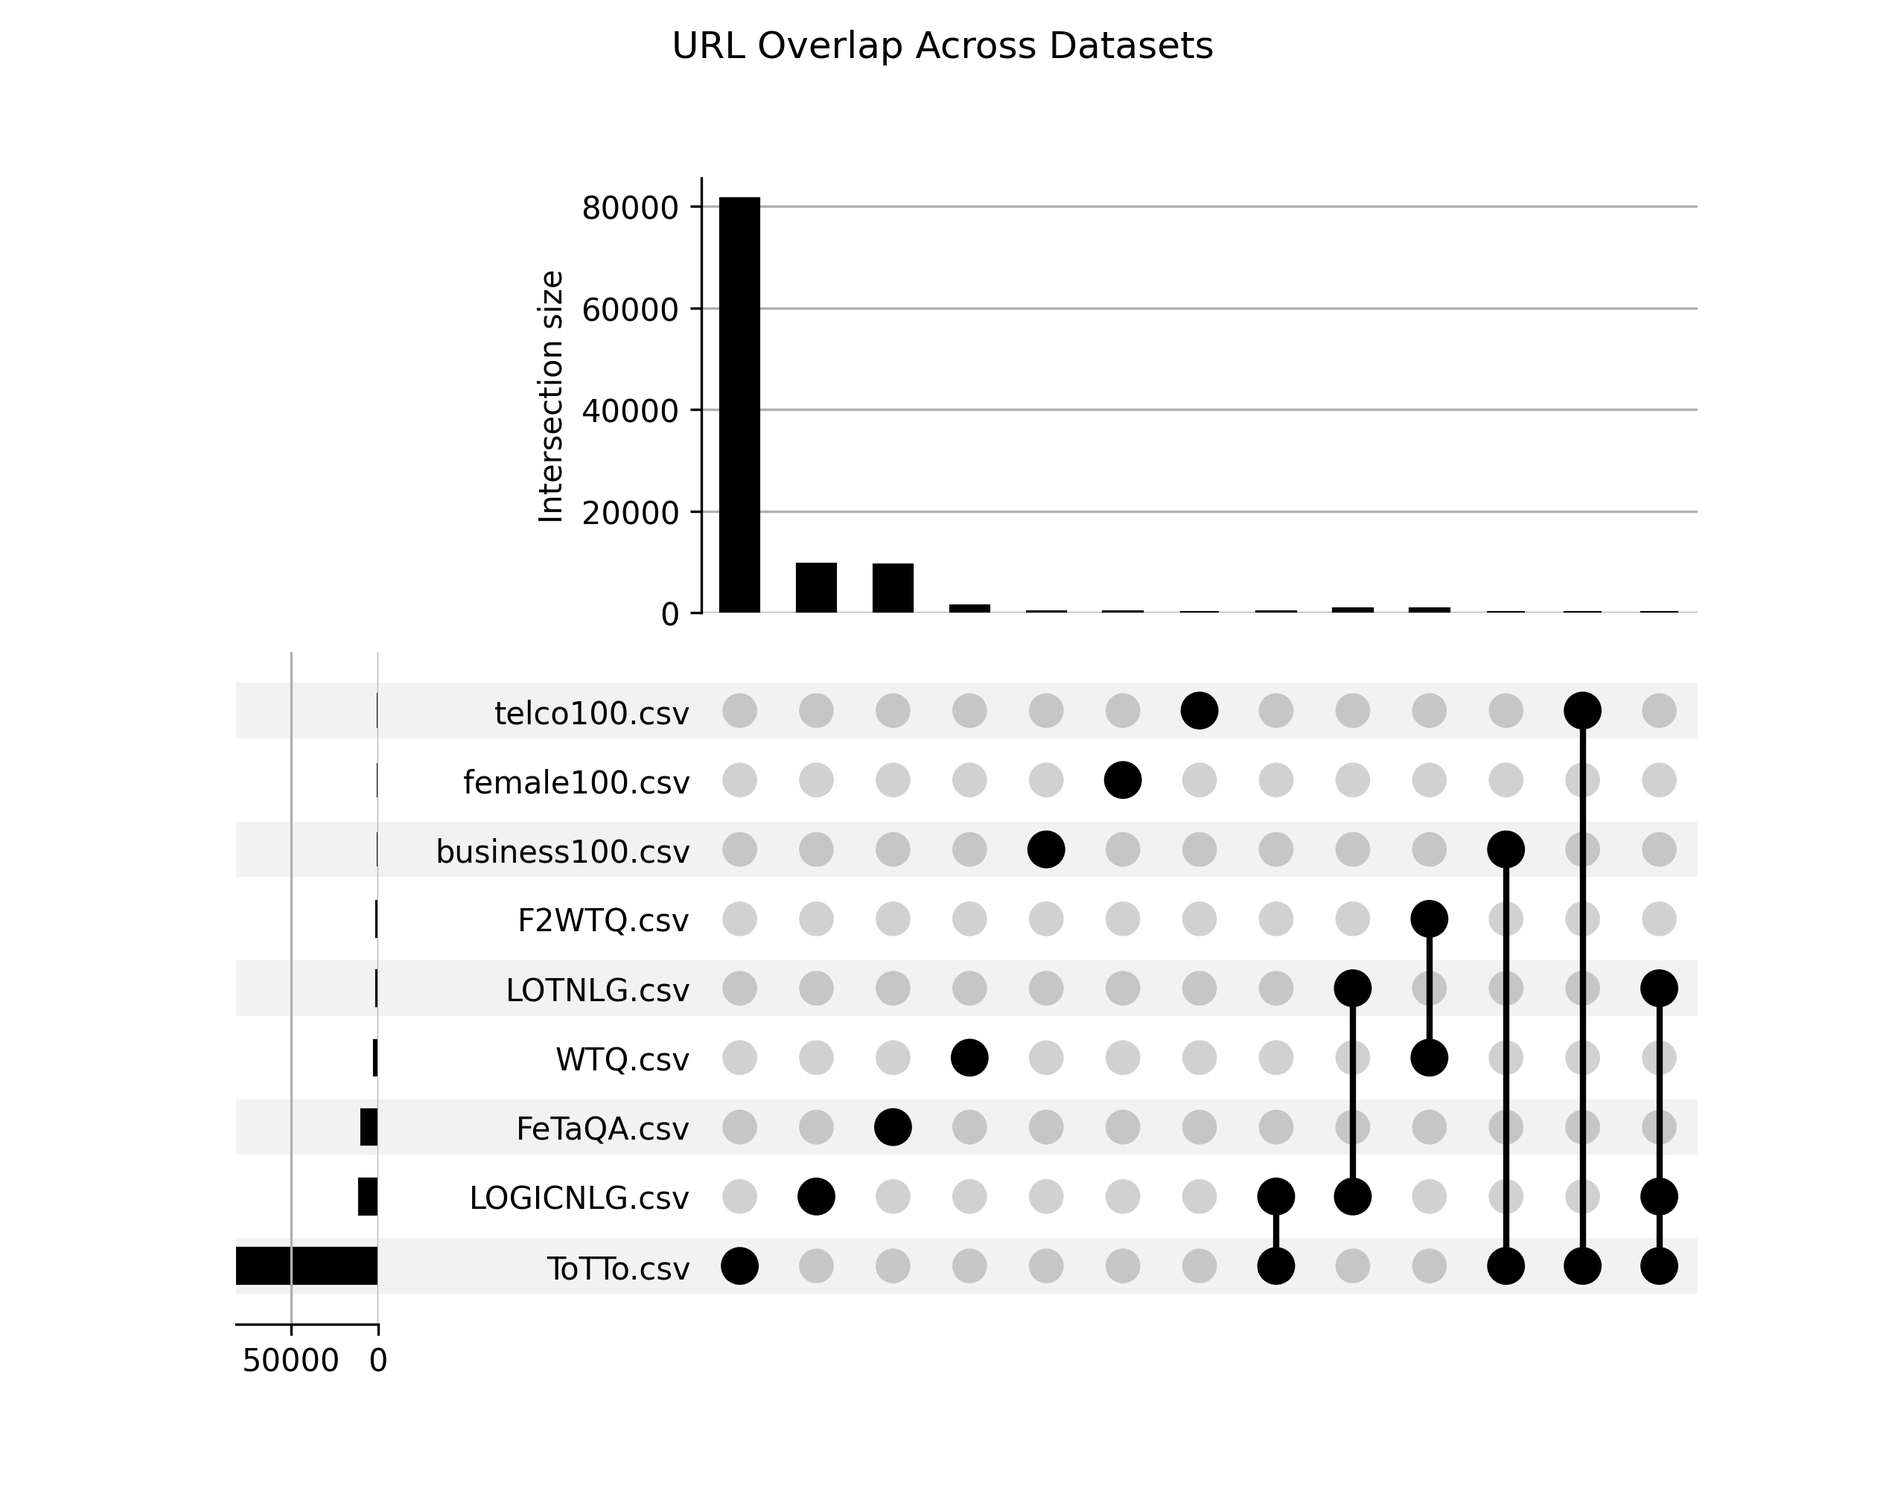
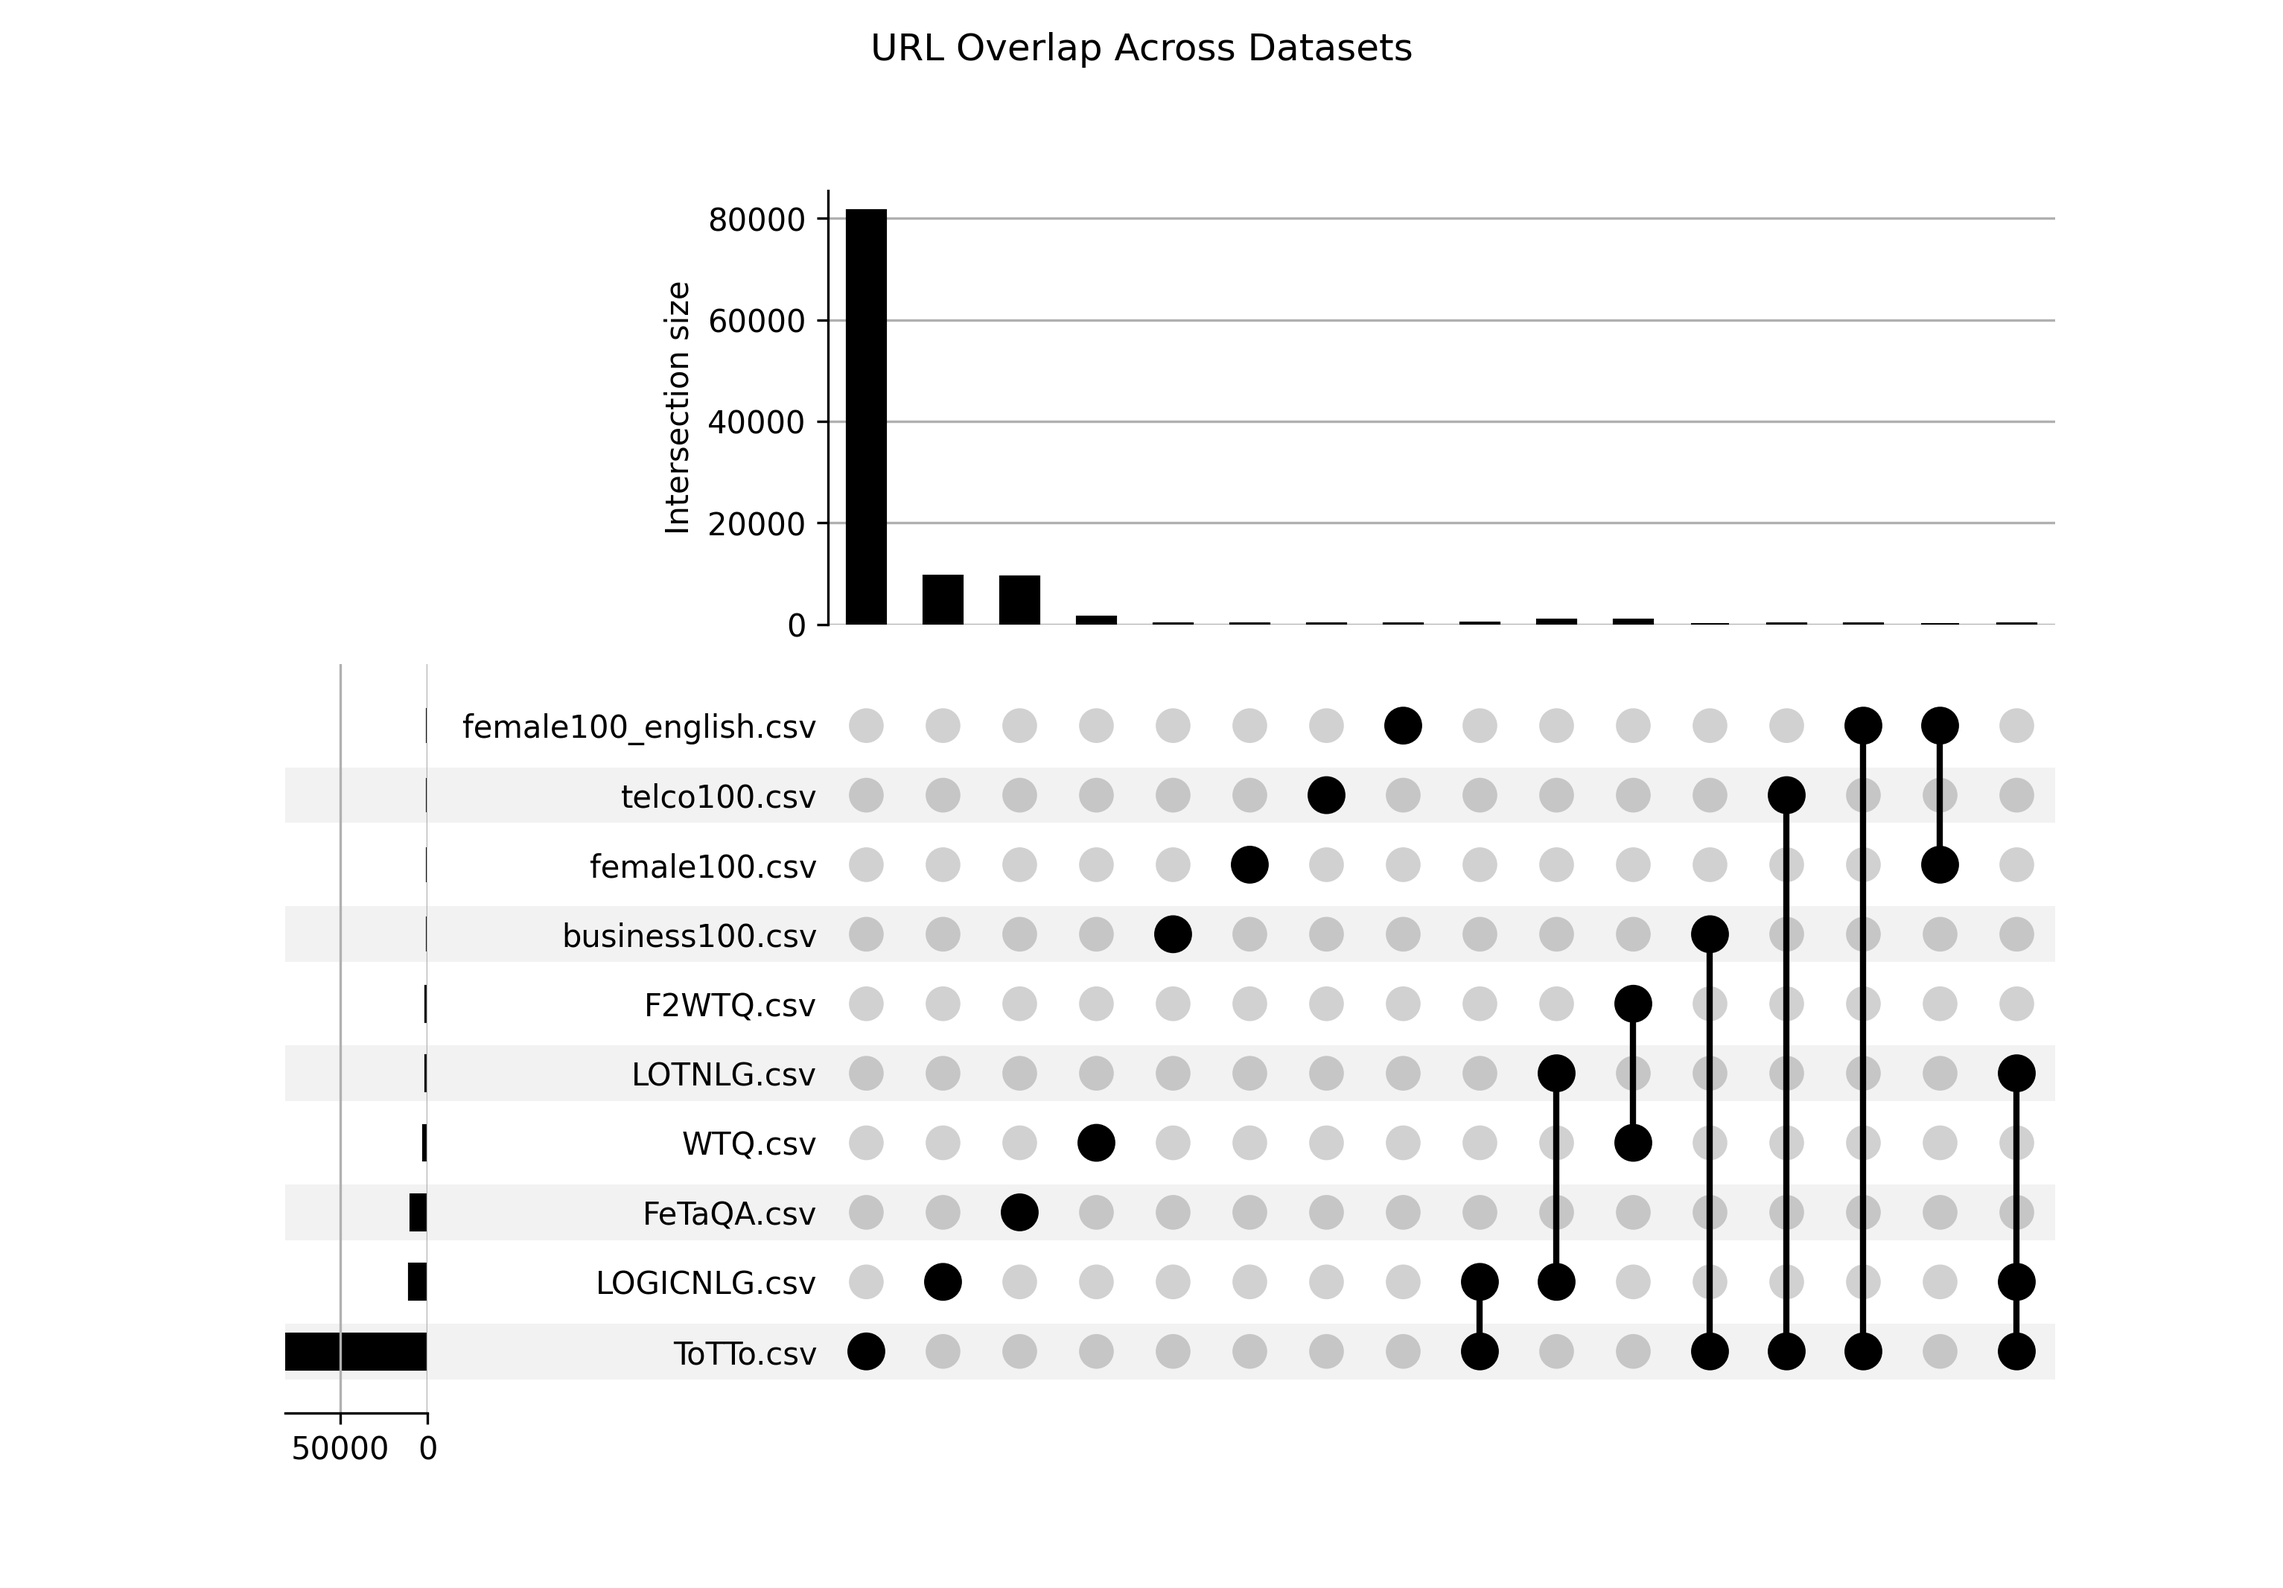
a

diff --git a/Dataset/datasets/female.py b/Dataset/datasets/female.py
@@ -1,0 +1,50 @@
+
+import pandas as pd
+import requests
+
+# Read the CSV file
+df = pd.read_csv('female100.csv')
+
+# Function to get the English URL from the French URL
+def get_english_url(french_url):
+    try:
+        # Extract the curid value from the French URL
+        curid = french_url.split('curid=')[1]
+        
+        # Use the Wikipedia API to get the English page ID
+        api_url = f'https://fr.wikipedia.org/w/api.php?action=query&prop=langlinks&pageids={curid}&lllang=en&format=json'
+        response = requests.get(api_url)
+        response.raise_for_status()
+        
+        data = response.json()
+        
+        # Get the English page title
+        page_data = data['query']['pages'][curid]
+        if 'langlinks' not in page_data:
+            print(f"No English version found for URL {french_url}")
+            return french_url
+        
+        english_title = page_data['langlinks'][0]['*']
+        
+        # Use the English page title to get the English page ID
+        api_url_en = f'https://en.wikipedia.org/w/api.php?action=query&titles={english_title}&format=json'
+        response_en = requests.get(api_url_en)
+        response_en.raise_for_status()
+        
+        data_en = response_en.json()
+        page_id_en = list(data_en['query']['pages'].keys())[0]
+        
+        # Create the English URL using the page ID
+        english_url = f'https://en.wikipedia.org/?curid={page_id_en}'
+        return english_url
+    except Exception as e:
+        print(f"Error converting URL {french_url}: {e}")
+        return french_url
+
+# Apply the conversion function to the URL column
+df['URL'] = df['URL'].apply(get_english_url)
+
+# Save the updated dataframe to a new CSV file
+df.to_csv('female100_english.csv', index=False)
+
+print("Conversion complete. The updated CSV file is saved as 'female100_english.csv'.")

diff --git a/Dataset/datasets/upset_plot.py b/Dataset/datasets/upset_plot.py
@@ -9,7 +9,7 @@ warnings.simplefilter(action='ignore', category=FutureWarning)
 # List of dataset filenames
 datasets = [
     "F2WTQ.csv", "FeTaQA.csv", "LOGICNLG.csv", "LOTNLG.csv", "ToTTo.csv",
-    "WTQ.csv", "business100.csv", "female100.csv", "telco100.csv"
+    "WTQ.csv", "business100.csv", "female100.csv", "telco100.csv","female100_english.csv"
 ]
 
 # Dictionary to store URLs from each dataset

diff --git a/Dataset/datasets/venn.py b/Dataset/datasets/venn.py
@@ -6,8 +6,9 @@ import os
 # List of dataset filenames
 datasets = [
     "F2WTQ.csv", "FeTaQA.csv", "LOGICNLG.csv", "LOTNLG.csv", "ToTTo.csv",
-    "WTQ.csv", "business100.csv", "female100.csv", "telco100.csv"
+    "WTQ.csv", "business100.csv", "female100.csv", "telco100.csv","female100_english.csv"
 ]
+
 
 # Dictionary to store URLs from each dataset
 url_dict = {}

diff --git a/Dataset/datasets/stats.md b/Dataset/datasets/stats.md
@@ -1,12 +1,14 @@
-Total unique URLs across all datasets: 103806
+Total unique URLs across all datasets: 103873
 
 Pairwise dataset overlap counts:
 LOGICNLG.csv & LOTNLG.csv: 804
 F2WTQ.csv & WTQ.csv: 767
 LOGICNLG.csv & ToTTo.csv: 233
+ToTTo.csv & female100_english.csv: 31
 LOTNLG.csv & ToTTo.csv: 25
 ToTTo.csv & telco100.csv: 12
 ToTTo.csv & business100.csv: 2
+female100.csv & female100_english.csv: 2
 F2WTQ.csv & FeTaQA.csv: 0
 F2WTQ.csv & LOGICNLG.csv: 0
 F2WTQ.csv & LOTNLG.csv: 0
@@ -14,6 +16,7 @@ F2WTQ.csv & ToTTo.csv: 0
 F2WTQ.csv & business100.csv: 0
 F2WTQ.csv & female100.csv: 0
 F2WTQ.csv & telco100.csv: 0
+F2WTQ.csv & female100_english.csv: 0
 FeTaQA.csv & LOGICNLG.csv: 0
 FeTaQA.csv & LOTNLG.csv: 0
 FeTaQA.csv & ToTTo.csv: 0
@@ -21,21 +24,27 @@ FeTaQA.csv & WTQ.csv: 0
 FeTaQA.csv & business100.csv: 0
 FeTaQA.csv & female100.csv: 0
 FeTaQA.csv & telco100.csv: 0
+FeTaQA.csv & female100_english.csv: 0
 LOGICNLG.csv & WTQ.csv: 0
 LOGICNLG.csv & business100.csv: 0
 LOGICNLG.csv & female100.csv: 0
 LOGICNLG.csv & telco100.csv: 0
+LOGICNLG.csv & female100_english.csv: 0
 LOTNLG.csv & WTQ.csv: 0
 LOTNLG.csv & business100.csv: 0
 LOTNLG.csv & female100.csv: 0
 LOTNLG.csv & telco100.csv: 0
+LOTNLG.csv & female100_english.csv: 0
 ToTTo.csv & WTQ.csv: 0
 ToTTo.csv & female100.csv: 0
 WTQ.csv & business100.csv: 0
 WTQ.csv & female100.csv: 0
 WTQ.csv & telco100.csv: 0
+WTQ.csv & female100_english.csv: 0
 business100.csv & female100.csv: 0
 business100.csv & telco100.csv: 0
+business100.csv & female100_english.csv: 0
 female100.csv & telco100.csv: 0
+female100_english.csv & telco100.csv: 0
 
 Datasets with the highest overlap: LOGICNLG.csv & LOTNLG.csv (804 URLs)
